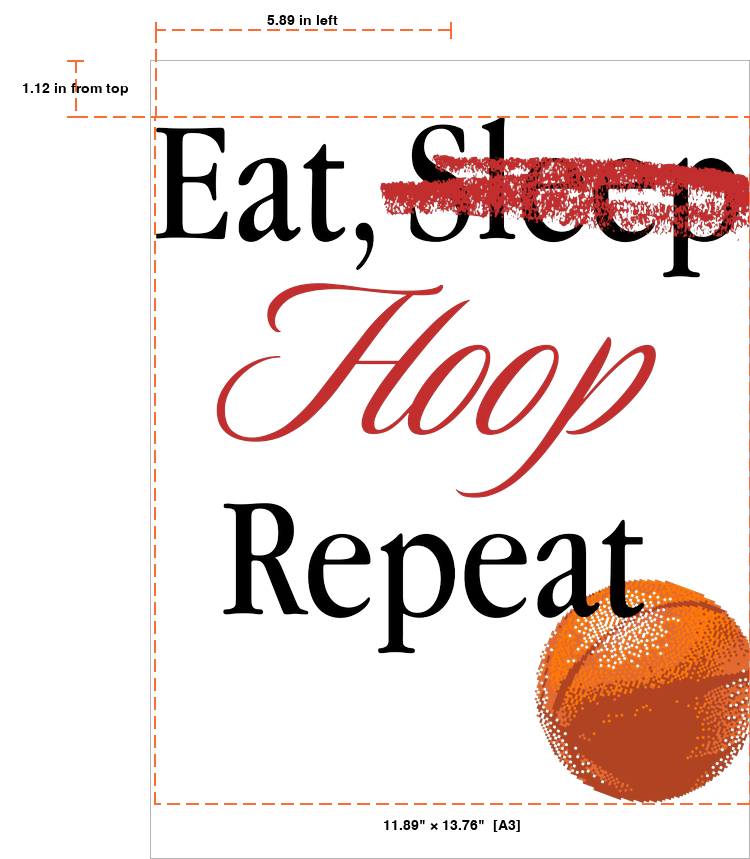
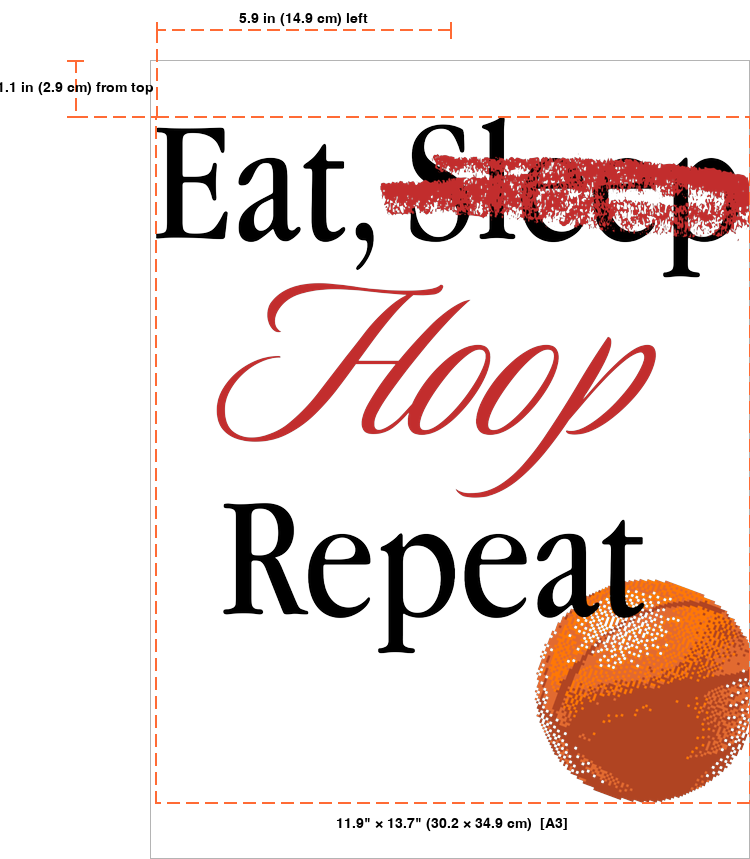
feat: Improve print zone snapping and clipping in the design canvas to prevent sub-pixel cropping and update test data.

Changed region(s): [[0.46, 0.9383, 0.7667, 0.9686], [0.0, 0.0908, 0.2147, 0.1211], [0.3067, 0.0, 0.4907, 0.0303]]

diff --git a/pimsuea-frontend/src/pages/DesignCanvas.tsx b/pimsuea-frontend/src/pages/DesignCanvas.tsx
@@ -381,24 +381,27 @@ export default function DesignCanvas() {
              obj.set({ top: zoneCY });
              addGuide(canvas, bounds.left - M, zoneCY, bounds.left + bounds.width + M, zoneCY);
            }
+           // Snap to the inner edge of the zone border stroke (strokeWidth/2 = 1px inset)
+           // so snapped objects sit cleanly inside the print area, not straddling the stroke centre.
+           const S = 1; // half of print zone strokeWidth: 2
            // Left edge
-           if (Math.abs(objLeft_ - bounds.left) < thresh) {
-             obj.set({ left: bounds.left + objWidth / 2 });
+           if (Math.abs(objLeft_ - (bounds.left + S)) < thresh) {
+             obj.set({ left: bounds.left + S + objWidth / 2 });
              addGuide(canvas, bounds.left, bounds.top - M, bounds.left, bounds.top + bounds.height + M);
            }
            // Right edge
-           if (Math.abs(objRight_ - (bounds.left + bounds.width)) < thresh) {
-             obj.set({ left: bounds.left + bounds.width - objWidth / 2 });
+           if (Math.abs(objRight_ - (bounds.left + bounds.width - S)) < thresh) {
+             obj.set({ left: bounds.left + bounds.width - S - objWidth / 2 });
              addGuide(canvas, bounds.left + bounds.width, bounds.top - M, bounds.left + bounds.width, bounds.top + bounds.height + M);
            }
            // Top edge
-           if (Math.abs(objTop_ - bounds.top) < thresh) {
-             obj.set({ top: bounds.top + objHeight / 2 });
+           if (Math.abs(objTop_ - (bounds.top + S)) < thresh) {
+             obj.set({ top: bounds.top + S + objHeight / 2 });
              addGuide(canvas, bounds.left - M, bounds.top, bounds.left + bounds.width + M, bounds.top);
            }
            // Bottom edge
-           if (Math.abs(objBot_ - (bounds.top + bounds.height)) < thresh) {
-             obj.set({ top: bounds.top + bounds.height - objHeight / 2 });
+           if (Math.abs(objBot_ - (bounds.top + bounds.height - S)) < thresh) {
+             obj.set({ top: bounds.top + bounds.height - S - objHeight / 2 });
              addGuide(canvas, bounds.left - M, bounds.top + bounds.height, bounds.left + bounds.width + M, bounds.top + bounds.height);
            }
 
@@ -625,12 +628,16 @@ export default function DesignCanvas() {
             height: scaledHeight 
         };
         
+        // Expand clip by strokeWidth/2 (1px) so objects snapped to the zone edge
+        // are never sitting exactly on the clip boundary, which causes sub-pixel
+        // cropping in the exported print file at high multipliers.
+        const ZONE_STROKE_HALF = 1; // half of the print zone rect's strokeWidth: 2
         const clipRect = new fabric.Rect({
-            left: scaledLeft,
-            top: scaledTop,
-            width: scaledWidth,
-            height: scaledHeight,
-            absolutePositioned: true, 
+            left: scaledLeft - ZONE_STROKE_HALF,
+            top: scaledTop - ZONE_STROKE_HALF,
+            width: scaledWidth + ZONE_STROKE_HALF * 2,
+            height: scaledHeight + ZONE_STROKE_HALF * 2,
+            absolutePositioned: true,
         });
         clipPathRef.current = clipRect;
       }
@@ -750,7 +757,7 @@ export default function DesignCanvas() {
                   strokeDashArray: [10, 5],
                   selectable: false,
                   evented: false,
-                  name: 'static_bg', 
+                  name: 'print_zone',
                 });
                 newCanvas.add(visualZone);
            }
@@ -840,8 +847,8 @@ export default function DesignCanvas() {
       // Toggle Selection
       canvas.selection = !isPanning;
       canvas.forEachObject((obj) => {
-          if (obj.name === 'static_bg') {
-              // Always keep background locked
+          if (obj.name === 'static_bg' || obj.name === 'print_zone') {
+              // Always keep background and print area locked
               obj.selectable = false;
               obj.evented = false;
           } else {
@@ -902,8 +909,8 @@ export default function DesignCanvas() {
           
           // Reset Object Interactability when leaving pan mode
           canvas.forEachObject((obj) => {
-             // Only unlock objects that are NOT static backgrounds
-             if (obj.name !== 'static_bg') {
+             // Only unlock objects that are NOT static backgrounds or print zone
+             if (obj.name !== 'static_bg' && obj.name !== 'print_zone') {
                 obj.selectable = true;
                 obj.evented = true;
              }

diff --git a/tools/annotate_print.py b/tools/annotate_print.py
@@ -83,7 +83,7 @@ COMBINE_GAP    = 20          # horizontal gap between images in pixels
 # Set BATCH_SIDES to a list of dicts; leave empty ([]) to use single-file mode.
 BATCH_SIDES = [
     {"input":"/Volumes/My Passport/Personal_Project/PimSuea/tools/test_data/IBC_front_printfile_2.png", "mockup": "/Volumes/My Passport/Personal_Project/PimSuea/tools/test_data/front_white_mock_template.png", "side": "front"},
-    {"input":"/Volumes/My Passport/Personal_Project/PimSuea/tools/test_data/IBC_back_printfile_2.png", "mockup": "/Volumes/My Passport/Personal_Project/PimSuea/tools/test_data/back_white_mock_template.png", "side": "back"}
+    {"input":"/Volumes/My Passport/Personal_Project/PimSuea/tools/test_data/IBC_back_printfile.png", "mockup": "/Volumes/My Passport/Personal_Project/PimSuea/tools/test_data/back_white_mock_template.png", "side": "back"}
     # {"input": "...front_print.png", "mockup": "...front_template.png", "side": "front"},
     # {"input": "...back_print.png",  "mockup": "...back_template.png",  "side": "back"},
 ]
